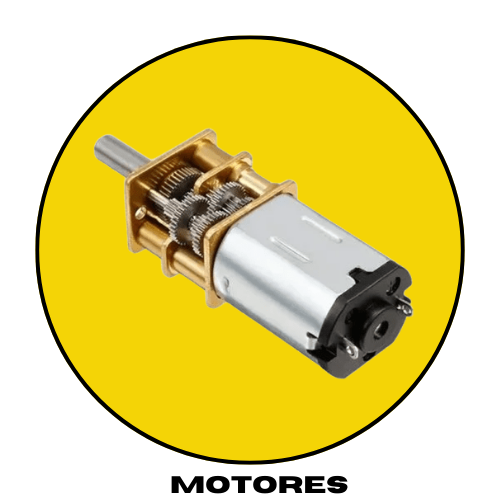
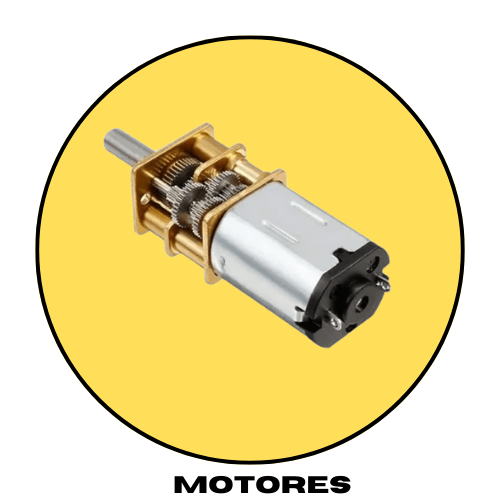
Ajustando o Card-produto

diff --git a/CardProduto.js b/CardProduto.js
@@ -5,7 +5,7 @@ const loja = {
         { name: 'Arduino Uno R2', preço: 'R$131,50',parcela:'<br> até 10x de R$ 13,50, sem juros <br>sem juros  ou R$ 131,50 via Pix ' , image: './imagem/img-Card-maisVendido/img3.png', descricao:'Microcontrolador: ATmega328 <br> DIPTensão de Entrada: 7-12V Portas  Digitais: 14 Portas Analógicas: 6' },
         { name: 'Ferro de Solda Hikari', preço: 'R$115,71',parcela:'<br> até 10x de R$ 11,571 sem juros <br> 3 sem juros R$ 115,71 via Pix '  ,image: './imagem/img-Card-maisVendido/img4.png', descricao: 'O Ferro de Solda para Estação <br> HK-936A o princípio de funcionamento <br> a transformação de corrente elétrica <br> em calor.' },
         { name: 'Acoplador Óptico 4N25', preço: 'R$1,95', parcela:'<br> até 10x de R$ 0,195 sem juros <br> 3 sem juros R$ 1,95 via Pix ' , image: './imagem/img-Card-maisVendido/img5.png', descricao: 'Acoplador Óptico 4N25.Tensão <br> Coletor-Emissor Máxima (VCEO):30 V-Tensão Coletor-Base Máxima (VCBO)' },
-        { name:'Capacitador Eltronico', preço:'R$0,86',parcela:'<br> até 10x de R$ 0,085 sem juros <br>sem juros  ou R$ 0,86 via Pix ' ,image:'./imagem/img-Card-maisVendido/img1.png',descricao:'capacitador de 1.000uF/25v <br> Eletrolítico 470uF/50V'},
+        { name:'Sensor de Proximidade Eltronico', preço:'R$19,86',parcela:'<br> até 10x de R$ 1,95 sem juros <br>sem juros  ou R$ 19,86 via Pix ' ,image:'./imagem/img-Card-maisVendido/img6.png',descricao:'O Sensor de Proximidade é um sensor capaz de detectar objetos com até 4mm de distância.'},
         { name:'Módulo Fonte 5V 3W <br> - HLK-PM01', preço:'R$19,95',parcela:'<br> até 10x de R$ 1,99 sem juros <br>sem juros  ou R$ 19,95 via Pix ',image:'./imagem/img-Card-maisVendido/img2.png',descricao:'com entrada bivolt AC de 100 <br>~240VAC, e com saída 5VDC.'},
         { name: 'Arduino Uno R2', preço: 'R$131,50',parcela:'<br> até 10x de R$ 13,50, sem juros <br>sem juros  ou R$ 131,50 via Pix ' , image: './imagem/img-Card-maisVendido/img3.png', descricao:'Microcontrolador: ATmega328 <br> DIPTensão de Entrada: 7-12V Portas  Digitais: 14 Portas Analógicas: 6' },
         { name: 'Ferro de Solda Hikari', preço: 'R$115,71',parcela:'<br> até 10x de R$ 11,571 sem juros <br> 3 sem juros R$ 115,71 via Pix '  ,image: './imagem/img-Card-maisVendido/img4.png', descricao: 'O Ferro de Solda para Estação <br> HK-936A o princípio de funcionamento <br> a transformação de corrente elétrica <br> em calor.' },

diff --git a/index.html b/index.html
@@ -182,7 +182,7 @@
         <div class="categorias-btn">
           <div class="dropdown">
             <a class="btn-categoria"
-              >Impresão 3D <i class="fa-solid fa-caret-down"></i>
+              >Impressão 3D <i class="fa-solid fa-caret-down"></i>
             </a>
             <div class="dropdown-content">
               <a href="#">Extrusora e Hotend</a>

diff --git a/CSS/carrosel2.css b/CSS/carrosel2.css
@@ -27,8 +27,8 @@
   }
   
   .carousel-item img {
-    width: 80%;
-    margin-left: 40%;
+    width: 85%;
+    margin-left: 35%;
   }
   
   .carousel-control {

diff --git a/CSS/ProdutoMaisVendidos.css b/CSS/ProdutoMaisVendidos.css
@@ -51,7 +51,7 @@
   margin-top: 30px;
 }
 .add-to-cart:hover {
-  background-color: #45a049;
+  background-color: #ffde59;
   transition: 1s;
 }  
 
